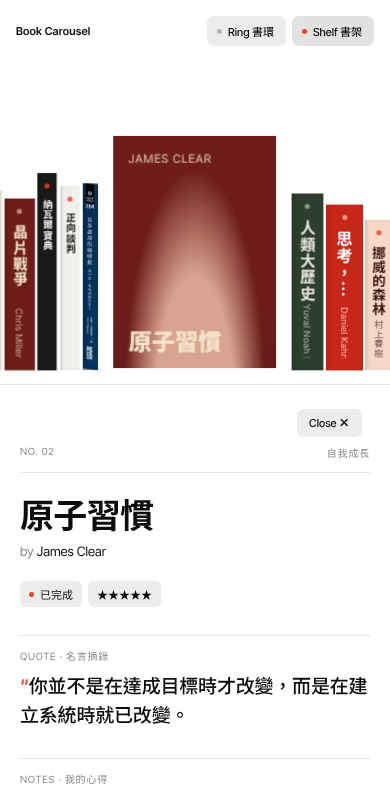
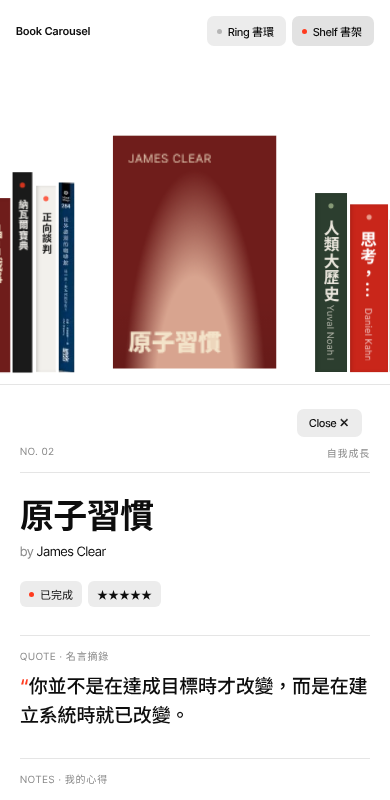
Shelf: more space around the open book and deeper perspective for the turn
Claude-Session: https://claude.ai/code/session_01RWwSRDu3iKruNzbqgCPziP

Changed region(s): [[0.0, 0.1875, 0.2769, 0.4688], [0.7385, 0.2188, 1.0, 0.4688]]

diff --git a/index.html b/index.html
@@ -70,7 +70,7 @@ body{background:var(--bg);color:var(--ink);font-family:'Inter Tight','Noto Sans 
   background-image:repeating-linear-gradient(90deg,rgba(0,0,0,.07) 0 1px,transparent 1px 3px)}
 
 /* ── shelf view ── */
-#shelf .track{position:absolute;left:0;right:0;bottom:calc(46% - 150px*var(--s));height:0;perspective:4200px}
+#shelf .track{position:absolute;left:0;right:0;bottom:calc(46% - 150px*var(--s));height:0;perspective:2200px}
 #shelf .slot.flat .cover, #shelf .slot.flat .top{visibility:hidden}
 #shelf .slot{position:absolute;left:0;bottom:0;transform-style:preserve-3d;will-change:transform}
 #shelf .book{transform-origin:50% 100%}
@@ -288,7 +288,7 @@ function nearestTarget(){
 }
 function centreOn(s){ tx -= targetDist(s); lastInput=0; }
 function deselect(){}
-const ZOOM=.28;
+const ZOOM=.28, GAP=90;   // GAP: breathing room on both sides of the open book
 function layoutShelf(){
   const sc=S(), R=46*sc, F=focusX();
   // keep the virtual strip covering the screen (infinite loop)
@@ -304,7 +304,7 @@ function layoutShelf(){
     const g = Math.abs(s.dist)<Ri ? .5+.5*Math.cos(Math.PI*s.dist/Ri) : 0, f = g*g*(3-2*g)*g;
     s.f=f; s.a=f*Math.PI/2;
     s.k = 1 + ZOOM*f;                                   // the centre book grows a little
-    s.e = (s.w*Math.cos(s.a)+s.d*Math.sin(s.a))*s.k - s.w + 30*sc*f;   // extra width while turned
+    s.e = (s.w*Math.cos(s.a)+s.d*Math.sin(s.a))*s.k - s.w + GAP*sc*f;   // extra width while turned
     E+=s.e;
   }
   let P=0;
